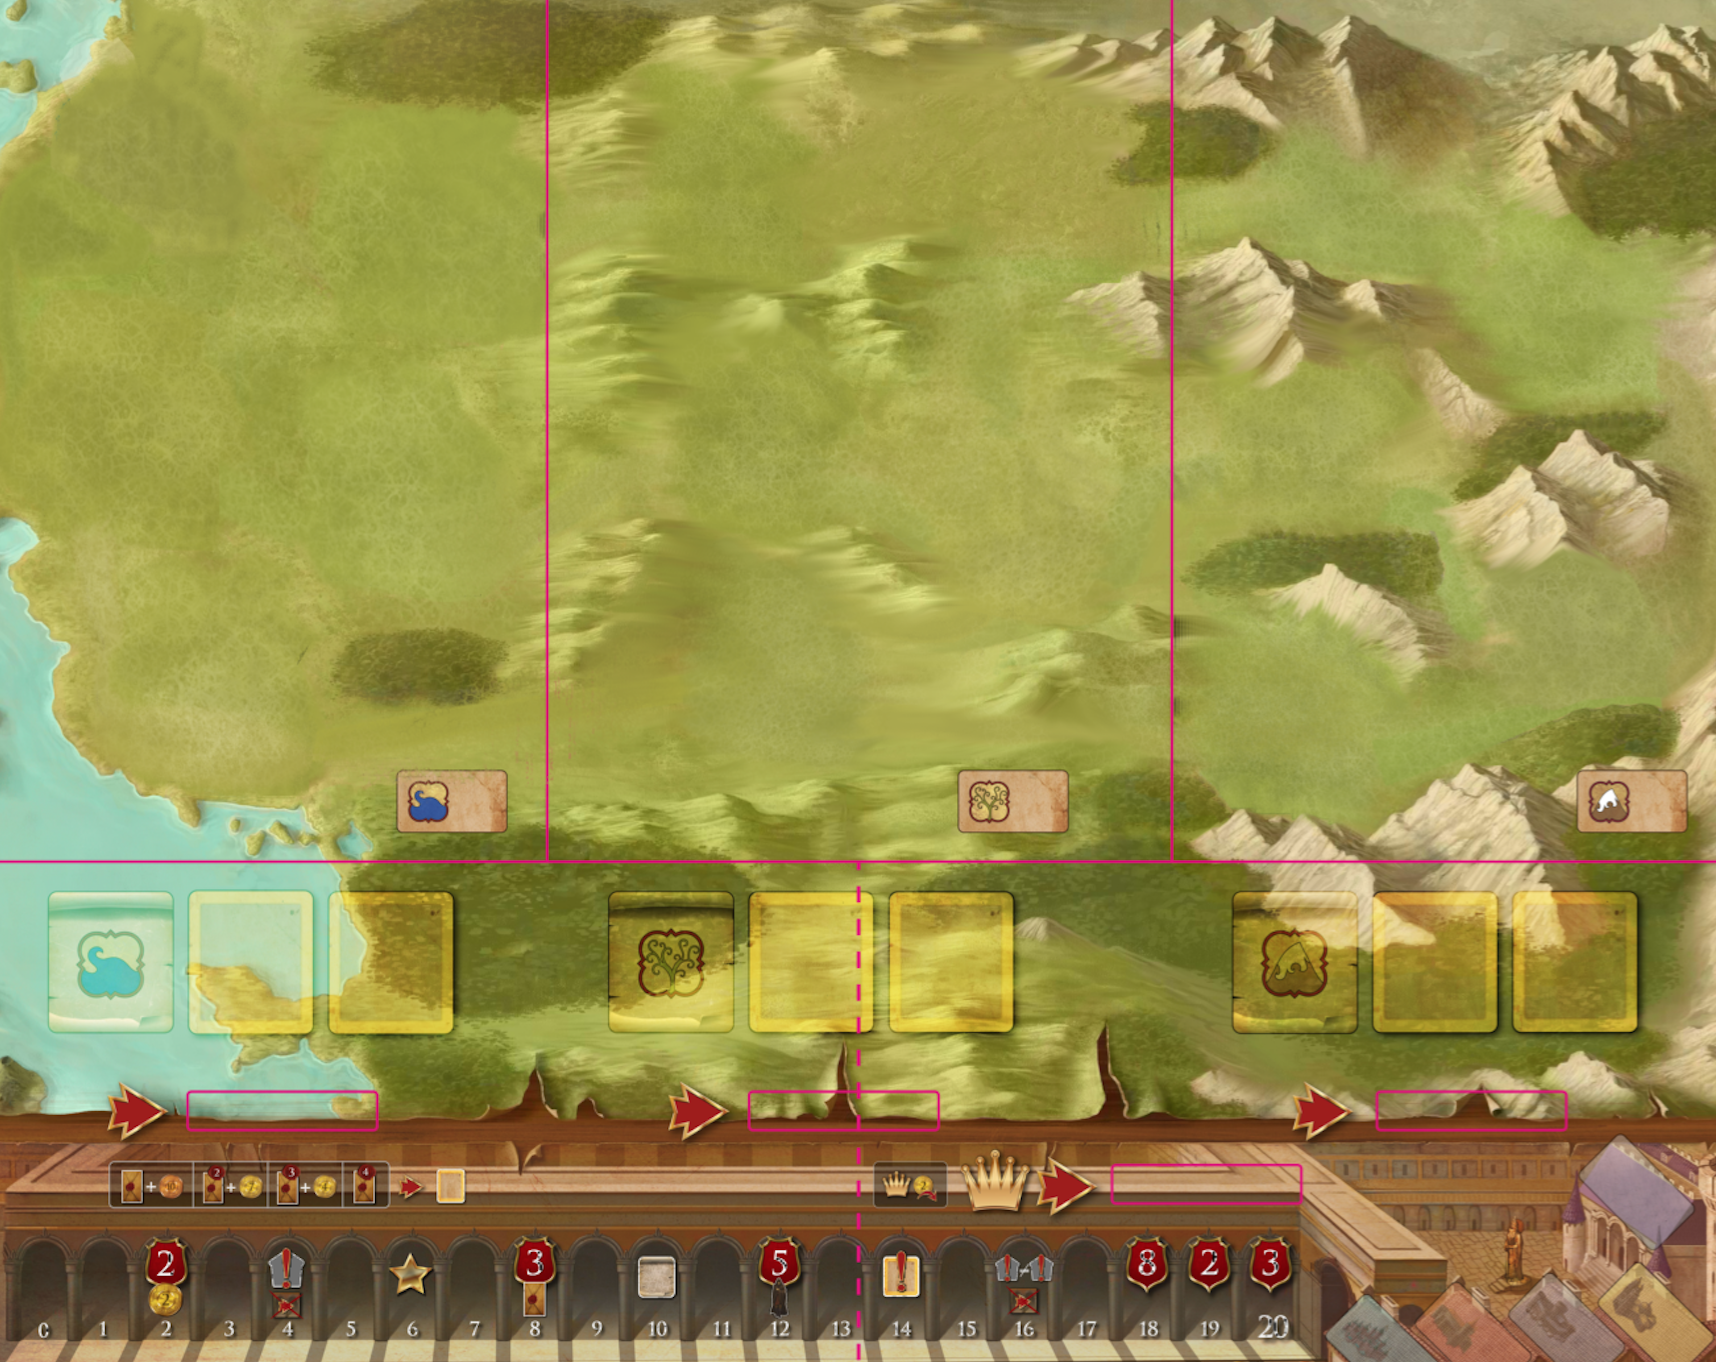
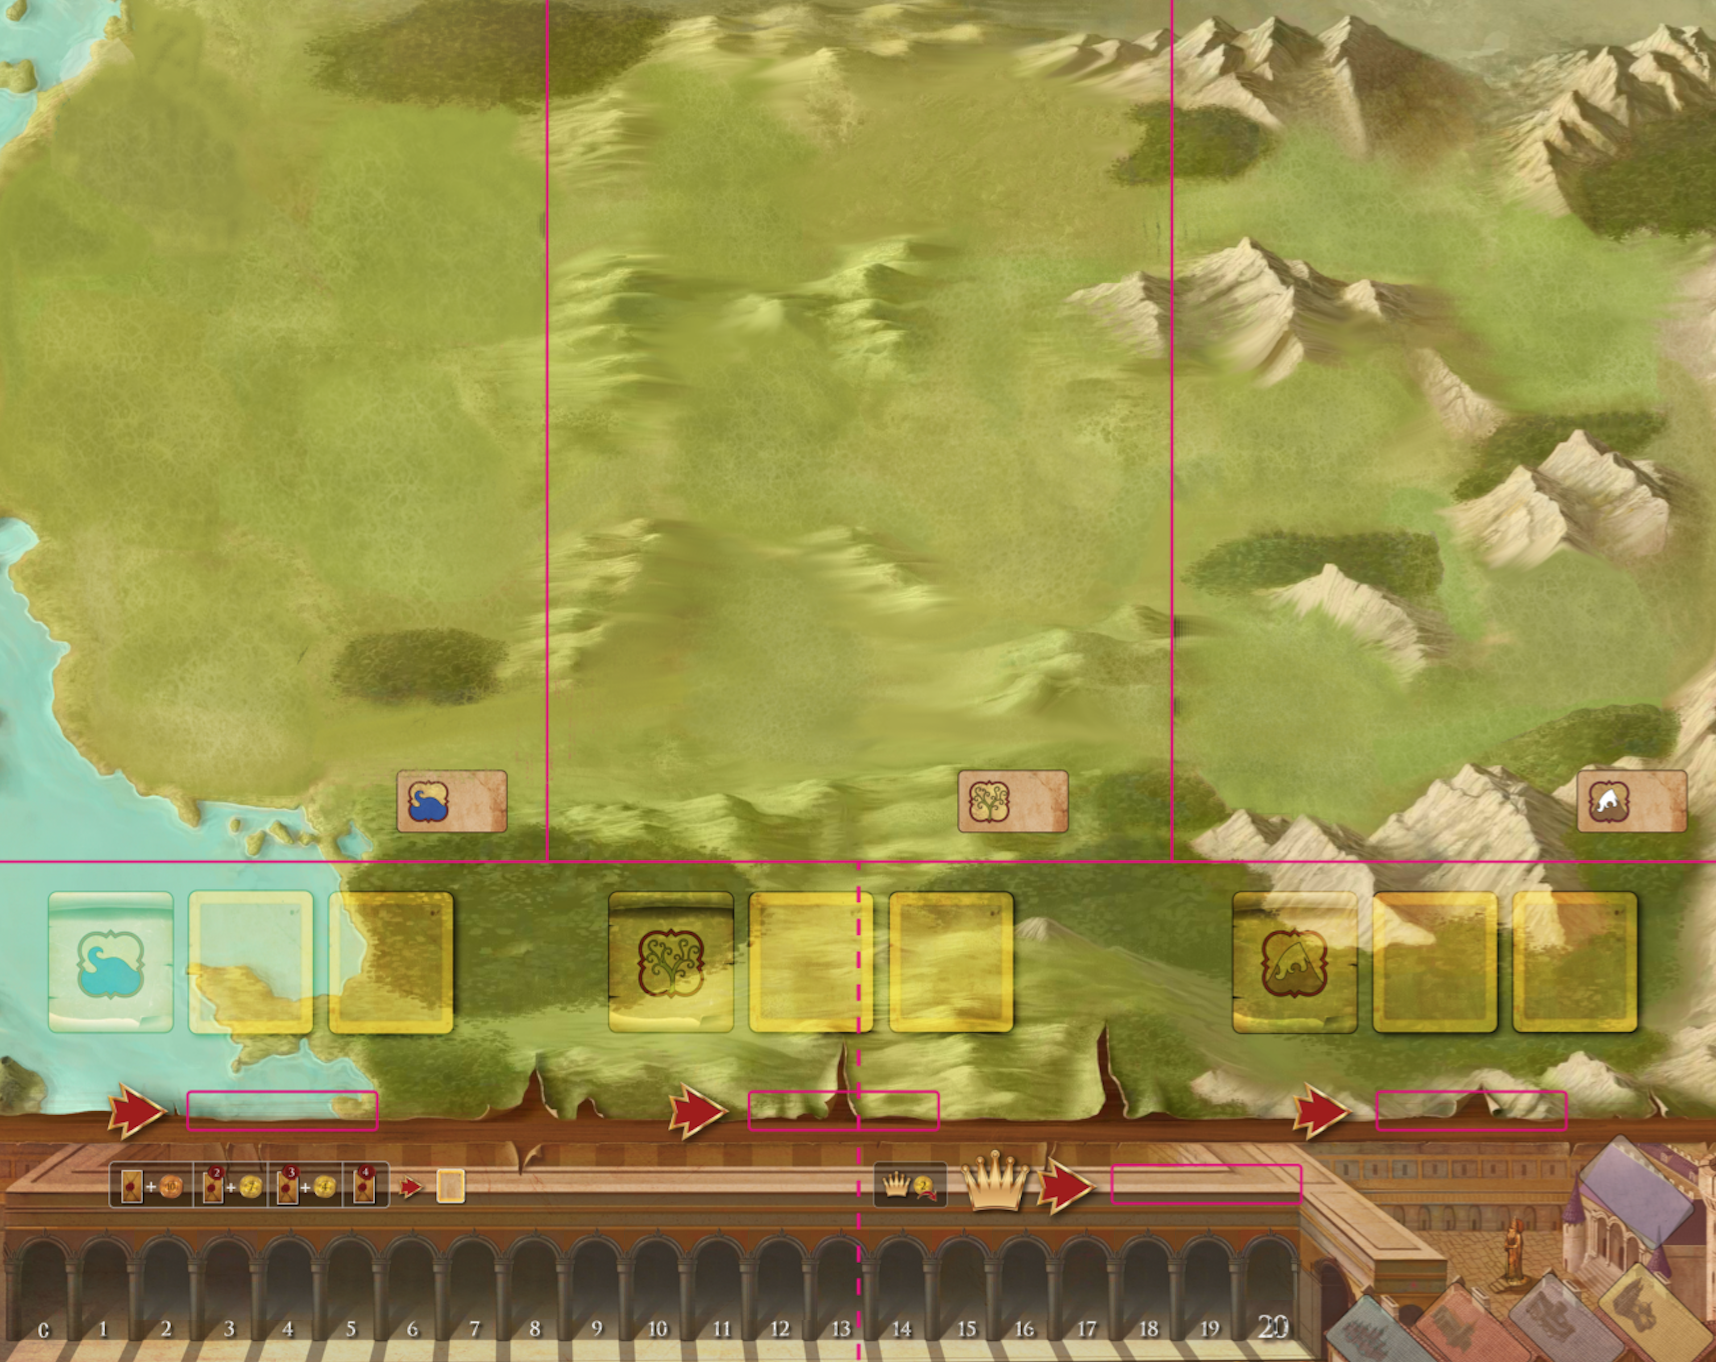
updated empty map, now with no bonus in the nobility path

diff --git a/src/main/java/fx/view/GameController.java b/src/main/java/fx/view/GameController.java
@@ -122,9 +122,7 @@ public class GameController {
 		initConnections();
 		initCouncils();
 		initBoardRewards();
-		initNobility();
-		
-		//mainApp.getLocalModel().getMap().kingBonus().set(10);
+		initNobility();		
 	}
 
 	// --------------------DUMMY ACTIONS--------------------
@@ -147,7 +145,6 @@ public class GameController {
 	private void handleTestAction4() throws IOException {
 		IntegerProperty nobility  = mainApp.getLocalModel().getMyPlayerData().nobilityProperty();
 		nobility.set(nobility.get()+1);
-		
 	}
 	// ------------------------------------------------------
 
